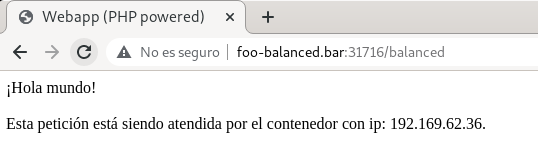
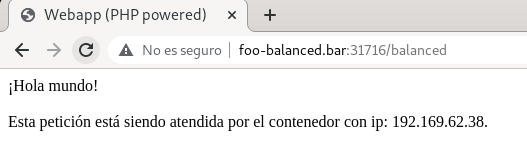
kubernetes

diff --git a/labs-k8s/10-desplegando-aplicación-balanceada.md b/labs-k8s/10-desplegando-aplicación-balanceada.md
@@ -200,8 +200,8 @@ Listamos los pods:
 ```console
 [kubeadmin@kubemaster webapp-balanced]$ kubectl get pods --namespace webapp-balanced -o wide
 NAME                               READY   STATUS    RESTARTS   AGE   IP               NODE                  NOMINATED NODE   READINESS GATES
-webapp-balanced-6f4f8dcd99-28s7z   1/1     Running   0          15s   192.169.45.158   kubenode2.jadbp.lab   <none>           <none>
-[kubeadmin@kubemaster webapp-balanced]$ 
+webapp-balanced-6f4f8dcd99-9pdqs   1/1     Running   0          30s   192.169.45.163   kubenode2.jadbp.lab   <none>           <none>
+[kubeadmin@kubemaster webapp-balanced]$
 ```
 
 La ip expuesta para conexiones:
@@ -226,9 +226,9 @@ Escalamos el deployment para tener dos pods:
 [kubeadmin@kubemaster labs-k8s]$ kubectl scale --replicas=2 deployment/webapp-balanced --namespace=webapp-balanced
 deployment.apps/webapp-balanced scaled
 [kubeadmin@kubemaster webapp-balanced]$ kubectl get pods --namespace webapp-balanced -o wide
-NAME                               READY   STATUS    RESTARTS   AGE   IP               NODE                  NOMINATED NODE   READINESS GATES
-webapp-balanced-6f4f8dcd99-28s7z   1/1     Running   0          38s   192.169.45.158   kubenode2.jadbp.lab   <none>           <none>
-webapp-balanced-6f4f8dcd99-tl9xn   1/1     Running   0          11s   192.169.62.36    kubenode1.jadbp.lab   <none>           <none>
+NAME                               READY   STATUS    RESTARTS   AGE     IP               NODE                  NOMINATED NODE   READINESS GATES
+webapp-balanced-6f4f8dcd99-9pdqs   1/1     Running   0          2m31s   192.169.45.163   kubenode2.jadbp.lab   <none>           <none>
+webapp-balanced-6f4f8dcd99-zfspg   1/1     Running   0          25s     192.169.62.38    kubenode1.jadbp.lab   <none>           <none>
 [kubeadmin@kubemaster webapp-balanced]$
 ```
 
@@ -246,10 +246,10 @@ Escalamos la apliación para tener tres pods:
 [kubeadmin@kubemaster devopslabs]$ kubectl scale --replicas=3 deployment/webapp-balanced --namespace=webapp-balanced
 deployment.apps/webapp-balanced scaled
 [kubeadmin@kubemaster devopslabs]$ kubectl get pods --namespace webapp-balanced -o wide
-NAME                               READY   STATUS    RESTARTS   AGE   IP               NODE                  NOMINATED NODE   READINESS GATES
-webapp-balanced-6f4f8dcd99-28s7z   1/1     Running   0          18m   192.169.45.158   kubenode2.jadbp.lab   <none>           <none>
-webapp-balanced-6f4f8dcd99-ntd48   0/1     Pending   0          13s   <none>           <none>                <none>           <none>
-webapp-balanced-6f4f8dcd99-tl9xn   1/1     Running   0          18m   192.169.62.36    kubenode1.jadbp.lab   <none>           <none>
+NAME                               READY   STATUS    RESTARTS   AGE     IP               NODE                  NOMINATED NODE   READINESS GATES
+webapp-balanced-6f4f8dcd99-9pdqs   1/1     Running   0          5m17s   192.169.45.163   kubenode2.jadbp.lab   <none>           <none>
+webapp-balanced-6f4f8dcd99-drxfw   0/1     Pending   0          7s      <none>           <none>                <none>           <none>
+webapp-balanced-6f4f8dcd99-zfspg   1/1     Running   0          3m11s   192.169.62.38    kubenode1.jadbp.lab   <none>           <none>
 [kubeadmin@kubemaster devopslabs]$
 ```
 
@@ -269,29 +269,43 @@ Podemos ver los eventos del namespace en el que venos que no se cumplen las regl
 ```console
 [kubeadmin@kubemaster devopslabs]$ kubectl get events --namespace webapp-balanced
 LAST SEEN   TYPE      REASON              OBJECT                                  MESSAGE
-19m         Normal    Scheduled           pod/webapp-balanced-6f4f8dcd99-28s7z    Successfully assigned webapp-balanced/webapp-balanced-6f4f8dcd99-28s7z to kubenode2.jadbp.lab
-19m         Normal    Pulled              pod/webapp-balanced-6f4f8dcd99-28s7z    Container image "quay.io/rhte_2019/webapp:v1" already present on machine
-19m         Normal    Created             pod/webapp-balanced-6f4f8dcd99-28s7z    Created container webapp-balanced
-19m         Normal    Started             pod/webapp-balanced-6f4f8dcd99-28s7z    Started container webapp-balanced
-43s         Warning   FailedScheduling    pod/webapp-balanced-6f4f8dcd99-ntd48    0/3 nodes are available: 1 node(s) had taint {node-role.kubernetes.io/master: }, that the pod didn't tolerate, 2 node(s) didn't match pod affinity/anti-affinity rules, 2 node(s) didn't match pod anti-affinity rules.
-41s         Warning   FailedScheduling    pod/webapp-balanced-6f4f8dcd99-ntd48    0/3 nodes are available: 1 node(s) had taint {node-role.kubernetes.io/master: }, that the pod didn't tolerate, 2 node(s) didn't match pod affinity/anti-affinity rules, 2 node(s) didn't match pod anti-affinity rules.
-18m         Normal    Scheduled           pod/webapp-balanced-6f4f8dcd99-tl9xn    Successfully assigned webapp-balanced/webapp-balanced-6f4f8dcd99-tl9xn to kubenode1.jadbp.lab
-18m         Normal    Pulled              pod/webapp-balanced-6f4f8dcd99-tl9xn    Container image "quay.io/rhte_2019/webapp:v1" already present on machine
-18m         Normal    Created             pod/webapp-balanced-6f4f8dcd99-tl9xn    Created container webapp-balanced
-18m         Normal    Started             pod/webapp-balanced-6f4f8dcd99-tl9xn    Started container webapp-balanced
-19m         Normal    SuccessfulCreate    replicaset/webapp-balanced-6f4f8dcd99   Created pod: webapp-balanced-6f4f8dcd99-28s7z
-19m         Normal    SuccessfulCreate    replicaset/webapp-balanced-6f4f8dcd99   Created pod: webapp-balanced-6f4f8dcd99-tl9xn
-44s         Normal    SuccessfulCreate    replicaset/webapp-balanced-6f4f8dcd99   Created pod: webapp-balanced-6f4f8dcd99-ntd48
-19m         Normal    ScalingReplicaSet   deployment/webapp-balanced              Scaled up replica set webapp-balanced-6f4f8dcd99 to 1
-19m         Normal    ScalingReplicaSet   deployment/webapp-balanced              Scaled up replica set webapp-balanced-6f4f8dcd99 to 2
-45s         Normal    ScalingReplicaSet   deployment/webapp-balanced              Scaled up replica set webapp-balanced-6f4f8dcd99 to 3
+5m49s       Normal    Scheduled           pod/webapp-balanced-6f4f8dcd99-9pdqs    Successfully assigned webapp-balanced/webapp-balanced-6f4f8dcd99-9pdqs to kubenode2.jadbp.lab
+5m46s       Normal    Pulled              pod/webapp-balanced-6f4f8dcd99-9pdqs    Container image "quay.io/rhte_2019/webapp:v1" already present on machine
+5m45s       Normal    Created             pod/webapp-balanced-6f4f8dcd99-9pdqs    Created container webapp-balanced
+5m45s       Normal    Started             pod/webapp-balanced-6f4f8dcd99-9pdqs    Started container webapp-balanced
+38s         Warning   FailedScheduling    pod/webapp-balanced-6f4f8dcd99-drxfw    0/3 nodes are available: 1 node(s) had taint {node-role.kubernetes.io/master: }, that the pod didn't tolerate, 2 node(s) didn't match pod affinity/anti-affinity rules, 2 node(s) didn't match pod anti-affinity rules.
+36s         Warning   FailedScheduling    pod/webapp-balanced-6f4f8dcd99-drxfw    0/3 nodes are available: 1 node(s) had taint {node-role.kubernetes.io/master: }, that the pod didn't tolerate, 2 node(s) didn't match pod affinity/anti-affinity rules, 2 node(s) didn't match pod anti-affinity rules.
+3m43s       Normal    Scheduled           pod/webapp-balanced-6f4f8dcd99-zfspg    Successfully assigned webapp-balanced/webapp-balanced-6f4f8dcd99-zfspg to kubenode1.jadbp.lab
+3m41s       Normal    Pulled              pod/webapp-balanced-6f4f8dcd99-zfspg    Container image "quay.io/rhte_2019/webapp:v1" already present on machine
+3m41s       Normal    Created             pod/webapp-balanced-6f4f8dcd99-zfspg    Created container webapp-balanced
+3m40s       Normal    Started             pod/webapp-balanced-6f4f8dcd99-zfspg    Started container webapp-balanced
+5m49s       Normal    SuccessfulCreate    replicaset/webapp-balanced-6f4f8dcd99   Created pod: webapp-balanced-6f4f8dcd99-9pdqs
+3m43s       Normal    SuccessfulCreate    replicaset/webapp-balanced-6f4f8dcd99   Created pod: webapp-balanced-6f4f8dcd99-zfspg
+39s         Normal    SuccessfulCreate    replicaset/webapp-balanced-6f4f8dcd99   Created pod: webapp-balanced-6f4f8dcd99-drxfw
+5m49s       Normal    ScalingReplicaSet   deployment/webapp-balanced              Scaled up replica set webapp-balanced-6f4f8dcd99 to 1
+3m43s       Normal    ScalingReplicaSet   deployment/webapp-balanced              Scaled up replica set webapp-balanced-6f4f8dcd99 to 2
+39s         Normal    ScalingReplicaSet   deployment/webapp-balanced              Scaled up replica set webapp-balanced-6f4f8dcd99 to 3
 [kubeadmin@kubemaster devopslabs]$ 
+```
+
+```console
+[kubeadmin@kubemaster webapp-balanced]$  kubectl scale --replicas=2 deployment/webapp-balanced --namespace=webapp-balanced
+deployment.apps/webapp-balanced scaled
+[kubeadmin@kubemaster webapp-balanced]$ kubectl get pods --namespace webapp-balanced -o wide
+NAME                               READY   STATUS    RESTARTS   AGE     IP               NODE                  NOMINATED NODE   READINESS GATES
+webapp-balanced-6f4f8dcd99-9pdqs   1/1     Running   0          6m54s   192.169.45.163   kubenode2.jadbp.lab   <none>           <none>
+webapp-balanced-6f4f8dcd99-zfspg   1/1     Running   0          4m48s   192.169.62.38    kubenode1.jadbp.lab   <none>           <none>
+[kubeadmin@kubemaster webapp-balanced]$ 
 ```
 
 ```console
 [kubeadmin@kubemaster devopslabs]$ kubectl edit deployment webapp-balanced --namespace webapp-balanced
 deployment.apps/webapp-balanced edited
 [kubeadmin@kubemaster devopslabs]$ 
+```
+
+```console
+
 ```
 
 ## Ejercicio
